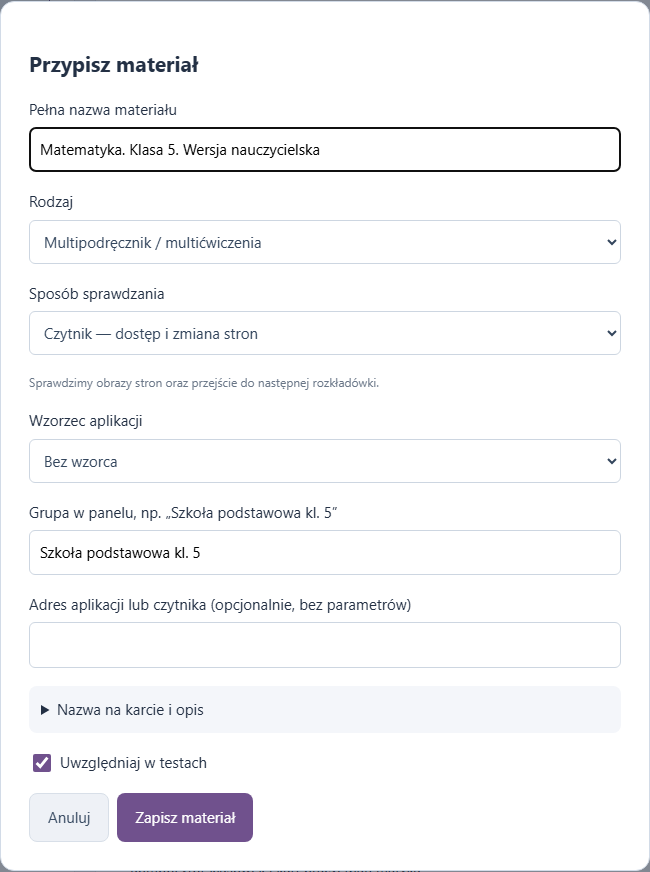
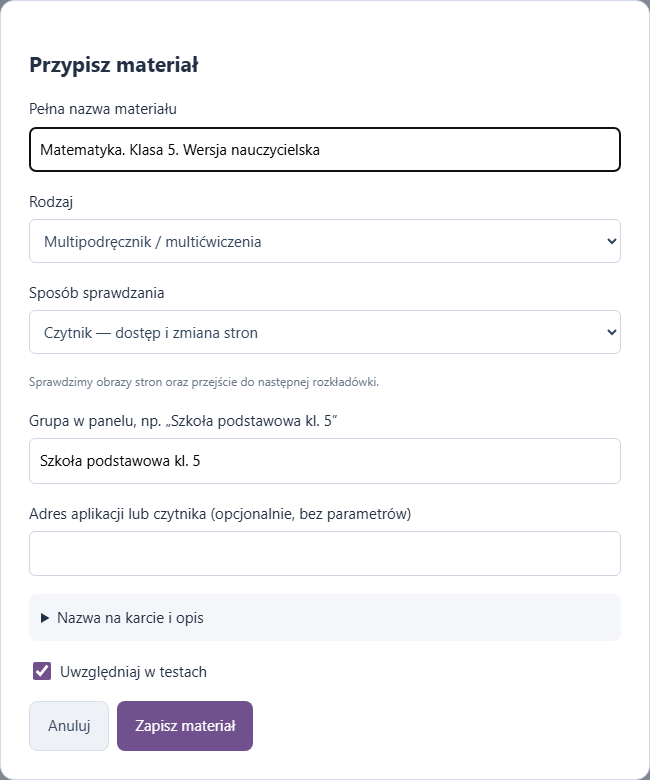
Show application template only for template-based checks

diff --git a/dashboard/teachers.js b/dashboard/teachers.js
@@ -23,7 +23,9 @@
   $('#material-dialog-title').textContent=resource?'Edytuj kontrolę materiału':'Przypisz materiał';$('#material-form-error').textContent='';materialOptions();$('#material-dialog').showModal();
  }
  function materialOptions(){
-  const f=$('#material-form'),adapter=f.elements.adapter.value,t=data.templates.find(t=>t.id===f.elements.templateId.value);
+  const f=$('#material-form'),adapter=f.elements.adapter.value,usesTemplate=adapter==='template',t=usesTemplate?data.templates.find(t=>t.id===f.elements.templateId.value):null;
+  f.elements.templateId.closest('label').hidden=!usesTemplate;
+  f.elements.templateId.disabled=!usesTemplate;
   $('#library-field').hidden=adapter!=='composer';f.elements.libraryLabel.required=adapter==='composer';
   const recognized=!!t?.approvedRules||['composer','worksheets'].includes(adapter);$('#rules-field').hidden=!recognized;f.elements.acceptRules.disabled=!recognized;if(!recognized)f.elements.acceptRules.checked=false;
   $('#adapter-note').textContent=adapter==='access'?'Sprawdzimy obecność i ważność dostępu. Działanie aplikacji nie będzie oznaczone jako sprawdzone.':adapter==='reader'?'Sprawdzimy obrazy stron oraz przejście do następnej rozkładówki.':adapter==='worksheets'?'Sprawdzimy katalog i załadowane zadania dla klas 1–3, blokując zapis zestawów.':adapter==='composer'?'Sprawdzimy wejście do wskazanej klasy i listę „Twoje zestawy”, bez zmiany zestawów.':'Użyjemy wcześniej skonfigurowanej czynności ze wzorca. Wybierz wzorzec pasujący do tej aplikacji.';

diff --git a/README.md b/README.md
@@ -41,6 +41,8 @@ Otwórz adres wyświetlony w terminalu. Panel próbuje portu **4182**, następni
 3. Przy wybranym materiale kliknij **Dodaj do kontroli**, wybierz sposób sprawdzania i zapisz. Multipodręcznik może być sprawdzany ze zmianą stron; aplikacja — jako sam dostęp, Kompozytor ze wskazaną klasą, katalog kart pracy lub dopasowany wzorzec. Samo pobranie listy nie przypisuje materiałów do testów.
 4. Użyj **Wybierz do testów** przy profilu albo listy **Nauczyciel** w widoku uruchamiania. Testy obejmą jego przypisane, włączone materiały. W harmonogramie nauczyciela wybiera się osobno.
 
+Pole **Wzorzec aplikacji** pojawia się tylko po wybraniu **Pełny test według istniejącego wzorca**. Pozostałe sposoby sprawdzania nie wymagają jego wyboru.
+
 <details>
 <summary>Zrzuty ekranu — przykładowe dane nauczyciela</summary>
 
